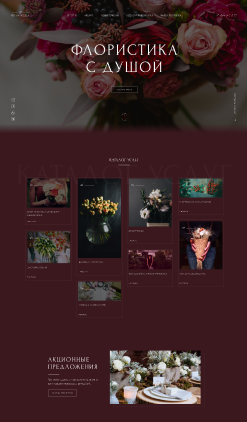
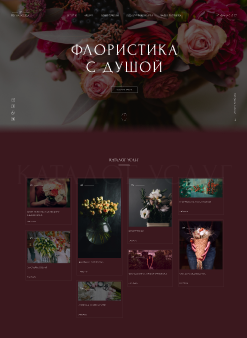
new version

diff --git a/index.html b/index.html
@@ -23,70 +23,118 @@
           </div>
         </div>
 
-      <h3 class="section-title">JavaScript TypeScript React</h3>
-      <div class="wrapper">
-      <div class="card-container">
-        <div class="card bg-gradient-peach">
-          <h3>What to watch</h3>
-          <a href="https://nwebcreator.github.io/what-to-watch/" target="_blank"><img src="img/wtw.png" alt="фото" class="site-preview" width="252" height="200"/></a>
-          <p>Онлайн-кинотеатр с возможностью выбирать фильмы по жанру, списком похожих фильмов, авторизацией, добавлением в избраное, оценками фильму, отзывами. SPA, TS + React</p>
-        </div>
-      </div>
-
-      <div class="card-container">
-        <div class="card bg-gradient-aqua">
-          <h3>Keksobooking</h3>
-          <a href="https://nwebcreator.github.io/keksobooking/" target="_blank"><img src="img/keksobooking.png" alt="фото" class="site-preview" width="252" height="200"/></a>
-          <p>Сервис размещения объявлений об аренде недвижимости в Токио. Пользователи делятся информацией о своём объекте недвижимости, перемещая метку по карте города. SPA, Vanila JS</p>
-        </div>
-      </div>
-
-      <div class="card-container">
-        <div class="card bg-gradient-vivid">
-          <h3>Cinemaaddict</h3>
-          <a href="https://nwebcreator.github.io/1718319-cinemaddict-15/" target="_blank"><img src="img/cinemaddict.png" alt="фото" class="site-preview" width="252" height="200"/></a>
-          <p>Сервис для фанатов кино. Подробная информация о фильмах, возможность сформировать собственный список, статистика, обсуждение фильмов. SPA, MVP + JS</p>
-        </div>
-      </div>
-    </div>
-
-      <h3 class="section-title">HTML CSS</h3>
+        
 
       <div class="wrapper">
-      <div class="card-container">
-        <div class="card bg-gradient-green">
-          <h3>AllFood</h3>
-          <a href="https://nwebcreator.github.io/allfood/" target="_blank"><img src="img/all-food.jpg" alt="фото" class="site-preview" width="212" height="250"/></a>
-          <p>Лендинг компании, которая предлагает готовые блюда с доставкой. HTML, CSS(Grid) + JS</p>
-        </div>
-      </div>
 
-      <div class="card-container">
-        <div class="card bg-gradient-red">
-          <h3>Florestry</h3>
-          <a href="https://nwebcreator.github.io/floristry/" target="_blank"><img src="img/florestry.png" alt="фото" class="site-preview" width="180" height="250"/></a>
-          <p>Главная страница сайта флористической компании. HTML, CSS(Flex) + JS</p>
+        <div class="card-container">
+          <div class="card bg-gradient-sunset">
+            <h3>SK Design</h3>
+            <a href="https://nwebcreator.github.io/what-to-watch/" target="_blank"><img src="img/sk-design.png" alt="фото" class="site-preview" width="280" height="180"/></a>
+            <p>Страница принятия заявок от дизайнеров, архитекторов и декораторов для магазина мебели. SPA, React + Styled-components</p>
+            <div class="card__buttons">
+              <a href="https://nwebcreator.github.io/SKDesign-verification/" class="card__button_site">Перейти на сайт</a>
+              <a href="https://github.com/nwebcreator/SKDesign-verification" class="card__button_code">Посмотреть код</a>
+            </div>
+          </div>
         </div>
-      </div>
 
-      <div class="card-container">
-        <div class="card bg-gradient-blue">
-          <h3>MontStroy</h3>
-          <a href="https://nwebcreator.github.io/mont-stroy/" target="_blank"><img src="img/mont-stroy.png" alt="фото" class="site-preview" width="212" height="250"/></a>
-          <p>Информационный сайт строительно-монтажной компании. HTML, CSS(Flex)</p>
+
+        <div class="card-container">
+          <div class="card bg-gradient-peach">
+            <h3>What to watch</h3>
+            <a href="https://nwebcreator.github.io/what-to-watch/" target="_blank"><img src="img/wtw.png" alt="фото" class="site-preview" width="252" height="200"/></a>
+            <p>Онлайн-кинотеатр с возможностью выбирать фильмы по жанру, списком похожих фильмов, авторизацией, добавлением в избраное, оценками фильму, отзывами. SPA, TS + React</p>
+            <div class="card__buttons">
+              <a href="https://nwebcreator.github.io/what-to-watch/" class="card__button_site">Перейти на сайт</a>
+              <a href="https://github.com/nwebcreator/what-to-watch" class="card__button_code">Посмотреть код</a>
+            </div>
+          </div>
         </div>
+
+        <div class="card-container">
+          <div class="card bg-gradient-aqua">
+            <h3>Keksobooking</h3>
+            <a href="https://nwebcreator.github.io/keksobooking/" target="_blank"><img src="img/keksobooking.png" alt="фото" class="site-preview" width="252" height="200"/></a>
+            <p>Сервис размещения объявлений об аренде недвижимости в Токио. Пользователи делятся информацией о своём объекте недвижимости, перемещая метку по карте города. SPA, Vanila JS</p>
+            <div class="card__buttons">
+              <a href="https://nwebcreator.github.io/keksobooking/" class="card__button_site">Перейти на сайт</a>
+              <a href="https://github.com/nwebcreator/keksobooking" class="card__button_code">Посмотреть код</a>
+            </div>
+          </div>
+        </div>
+
+        <div class="card-container">
+          <div class="card bg-gradient-vivid">
+            <h3>Cinemaaddict</h3>
+            <a href="https://nwebcreator.github.io/1718319-cinemaddict-15/" target="_blank"><img src="img/cinemaddict.png" alt="фото" class="site-preview" width="252" height="200"/></a>
+            <p>Сервис для фанатов кино. Подробная информация о фильмах, возможность сформировать собственный список, статистика, обсуждение фильмов. SPA, MVP + JS</p>
+            <div class="card__buttons">
+              <a href="https://nwebcreator.github.io/1718319-cinemaddict-15/" class="card__button_site">Перейти на сайт</a>
+              <a href="https://github.com/nwebcreator/1718319-cinemaddict-15" class="card__button_code">Посмотреть код</a>
+            </div>
+          </div>
+        </div>
+
+
+        <div class="card-container">
+          <div class="card bg-gradient-green">
+            <h3>AllFood</h3>
+            <a href="https://nwebcreator.github.io/allfood/" target="_blank"><img src="img/all-food.jpg" alt="фото" class="site-preview" width="212" height="250"/></a>
+            <p>Лендинг компании, которая предлагает готовые блюда с доставкой. HTML, CSS(Grid) + JS</p>
+            <div class="card__buttons">
+              <a href="https://nwebcreator.github.io/allfood/" class="card__button_site">Перейти на сайт</a>
+              <a href="https://github.com/nwebcreator/allfood" class="card__button_code">Посмотреть код</a>
+            </div>
+          </div>
+        </div>
+
+        <div class="card-container">
+          <div class="card bg-gradient-red">
+            <h3>Florestry</h3>
+            <a href="https://nwebcreator.github.io/floristry/" target="_blank"><img src="img/florestry.png" alt="фото" class="site-preview" width="212" height="250"/></a>
+            <p>Главная страница сайта флористической компании. HTML, CSS(Flex) + JS</p>
+            <div class="card__buttons">
+              <a href="https://nwebcreator.github.io/what-to-watch/" class="card__button_site">Перейти на сайт</a>
+              <a href="https://github.com/nwebcreator/what-to-watch" class="card__button_code">Посмотреть код</a>
+            </div>
+          </div>
+        </div>
+
+        <div class="card-container">
+          <div class="card bg-gradient-blue">
+            <h3>MontStroy</h3>
+            <a href="https://nwebcreator.github.io/mont-stroy/" target="_blank"><img src="img/mont-stroy.png" alt="фото" class="site-preview" width="212" height="250"/></a>
+            <p>Информационный сайт строительно-монтажной компании. HTML, CSS(Flex)</p>
+            <div class="card__buttons">
+              <a href="https://nwebcreator.github.io/floristry/" class="card__button_site">Перейти на сайт</a>
+              <a href="https://github.com/nwebcreator/floristry" class="card__button_code">Посмотреть код</a>
+            </div>
+          </div>
+        </div>
+
+        <div class="card-container">
+          <div class="card bg-gradient-relvise">
+            <h3>Relvise</h3>
+            <a href="" target="_blank"><img src="img/relvise.png" alt="фото" class="site-preview" width="240" height="200"/></a>
+            <p>Сайт компании, занимающейся финансовым консультированием. HTML, CSS(Flex)</p>
+            <div class="card__buttons">
+              <a href="" class="card__button_site">Перейти на сайт</a>
+              <a href="https://github.com/nwebcreator/Relvise" class="card__button_code">Посмотреть код</a>
+            </div>
+          </div>
+        </div>
+
       </div>
-    </div>
 
     <h3 class="section-title"></h3>
 
-
-        <div class="card bg-gradient-violet">
-          <h3>Примеры кода в песочницах:</h3>
-          <div class="card-container last">
-            <!-- <img src="" alt="codepen" class="site-preview"/> --><a href="https://codepen.io/nwebcreator/pens/public" target="_blank">codepen.io</a>
-            <!--<img src="" alt="stackblitz" class="site-preview"/> --><a href="https://stackblitz.com/@nwebcreator" target="_blank">stackblitz.com</a>
-            <!--<img src="" alt="jsfiddle" class="site-preview"/> --><a href="https://jsfiddle.net/user/nwebcreator/fiddles/" target="_blank">jsfiddle.net</a>
+        <div class="footer bg-gradient-violet">
+          <div class="footer__item footer__item-title"><span>Примеры кода в песочницах:</span></div>
+          <div class="footer__item-links">
+          <!-- <img src="" alt="codepen" class="site-preview"/> --><div class="footer__item footer__item-link"> <a href="https://codepen.io/nwebcreator/pens/public" target="_blank">codepen.io</a></div>
+          <!--<img src="" alt="stackblitz" class="site-preview"/> --><div class="footer__item footer__item-link"> <a href="https://stackblitz.com/@nwebcreator" target="_blank">stackblitz.com</a></div>
+          <!--<img src="" alt="jsfiddle" class="site-preview"/> --><div class="footer__item footer__item-link"> <a href="https://jsfiddle.net/user/nwebcreator/fiddles/" target="_blank">jsfiddle.net</a></div>
           </div>
         </div>
     </div>

diff --git a/style.css b/style.css
@@ -13,6 +13,8 @@ body {
   font-weight: normal;
   font-family: 'Roboto', sans-serif;
 
+  min-width: 340px;
+
   /* font: normal 16px 'Roboto', sans-serif; */
   /* font-family:Cambria, Cochin, Georgia, Times, 'Times New Roman', serif; */
 }
@@ -67,7 +69,7 @@ a:active {
 }
 
 
-@media (max-width: 700px) {
+@media (max-width: 708px) {
   .info {
     text-align: center;
     display: block;
@@ -102,23 +104,35 @@ a:active {
 }
 
 .wrapper {
-  display: flex;
+  /*display: flex;
   min-height: 100%;
   justify-content: space-between;
-  flex-direction: row;
+  flex-direction: column; */
+  display: grid;
+  grid-template-columns: repeat(auto-fit, 340px);
+  column-gap: 15px;
+  row-gap: 15px;
+
+}
+
+.card-container {
+  display: flex;
+  flex-wrap: wrap;
+  column-gap: 30px;
+  row-gap: 30px;
+  justify-content: center; 
 }
 
 .card {
   display: flex;
-  flex-direction: column;
-  justify-content: space-between;
+  justify-content: center;
   flex-wrap: wrap;
-  min-width: none;
+
   align-items: center;
   margin-right: 30px;
   padding: 15px 20px;
   margin-bottom: 20px;
-  border-radius: 15px;
+  border-radius: 10px;
 }
 
 .last a {
@@ -128,6 +142,47 @@ a:active {
 
 .last:last-child {
   padding-bottom: 15px;
+}
+
+.card__buttons {
+  display: flex;
+  min-height: 35px;
+  justify-content: center;
+  align-items: center;
+  padding: 1px 0px;
+  font-size: 14px;
+  font-weight: 500;
+  text-align: center;
+}
+
+.card__buttons a {
+  text-decoration: none;
+}
+
+.card__button_site {
+  border-radius: 7px;
+  background: #fff;
+  color: #2b2b2b;
+  margin-right: 10px;
+  padding: 5px 20px;
+  border: 1px solid #2b2b2b;
+}
+
+.card__button_site:hover {
+  transition: 0.9s;
+  transform: scale(1.1);
+}
+
+.card__button_code {
+  border-radius: 7px;
+  background: #454545;
+  color: #fff;
+  padding: 5px 20px;
+}
+
+.card__button_code:hover {
+  transition: 0.5s;
+  transform: scale(1.1);
 }
 
 
@@ -227,12 +282,21 @@ a:active {
 }
 
 .bg-gradient-aqua {
-background: linear-gradient(-90deg, #7EE0C9 0%, #62B5C8 100%) 
+background: linear-gradient(-90deg, #7EE0C9 0%, #52a5b8 100%) 
 }
 
 .bg-gradient-vivid {
   background: linear-gradient(to right, #FC466B, #3F5EFB);
 }
+
+.bg-gradient-sunset {
+  background: linear-gradient(to right, #2d93d6, #59dcf0);
+}
+
+.bg-gradient-relvise {
+  background: linear-gradient(to right, #e45d1f, #1e8fb8);
+}
+
 
 .card h2 {
   margin-bottom: 10px;
@@ -247,7 +311,44 @@ background: linear-gradient(-90deg, #7EE0C9 0%, #62B5C8 100%)
   text-align: center;
 }
 
-.card img:hover {
+/*.card img:hover {
   transition: 0.9s;
   transform: scale(1.1);
+} */
+
+.footer {
+  display: flex;
+  flex-wrap: wrap;
+  column-gap: 10px;
+  row-gap: 10px;
+  justify-content: center;
+  border-radius: 10px;
+  max-width: calc(333px * 3 + 15px * 2);
+}
+
+.footer__item-title {
+  font-size: 18px;
+  font-weight: bold;
+  margin-top: 10px;
+}
+
+.footer__item {
+  font-size: 18px;
+  padding: 10px 20px 10px 20px;
+  margin-top: 15px;
+  margin-bottom: 10px;
+  border-radius: 10px;
+  text-align: center;
+}
+
+.footer__item-link {
+  border: 1px solid white;
+}
+
+.footer__item-links {
+  display: flex;
+  flex-wrap: wrap;
+  column-gap: 10px;
+  row-gap: 10px;
+  justify-content: center;
 }
